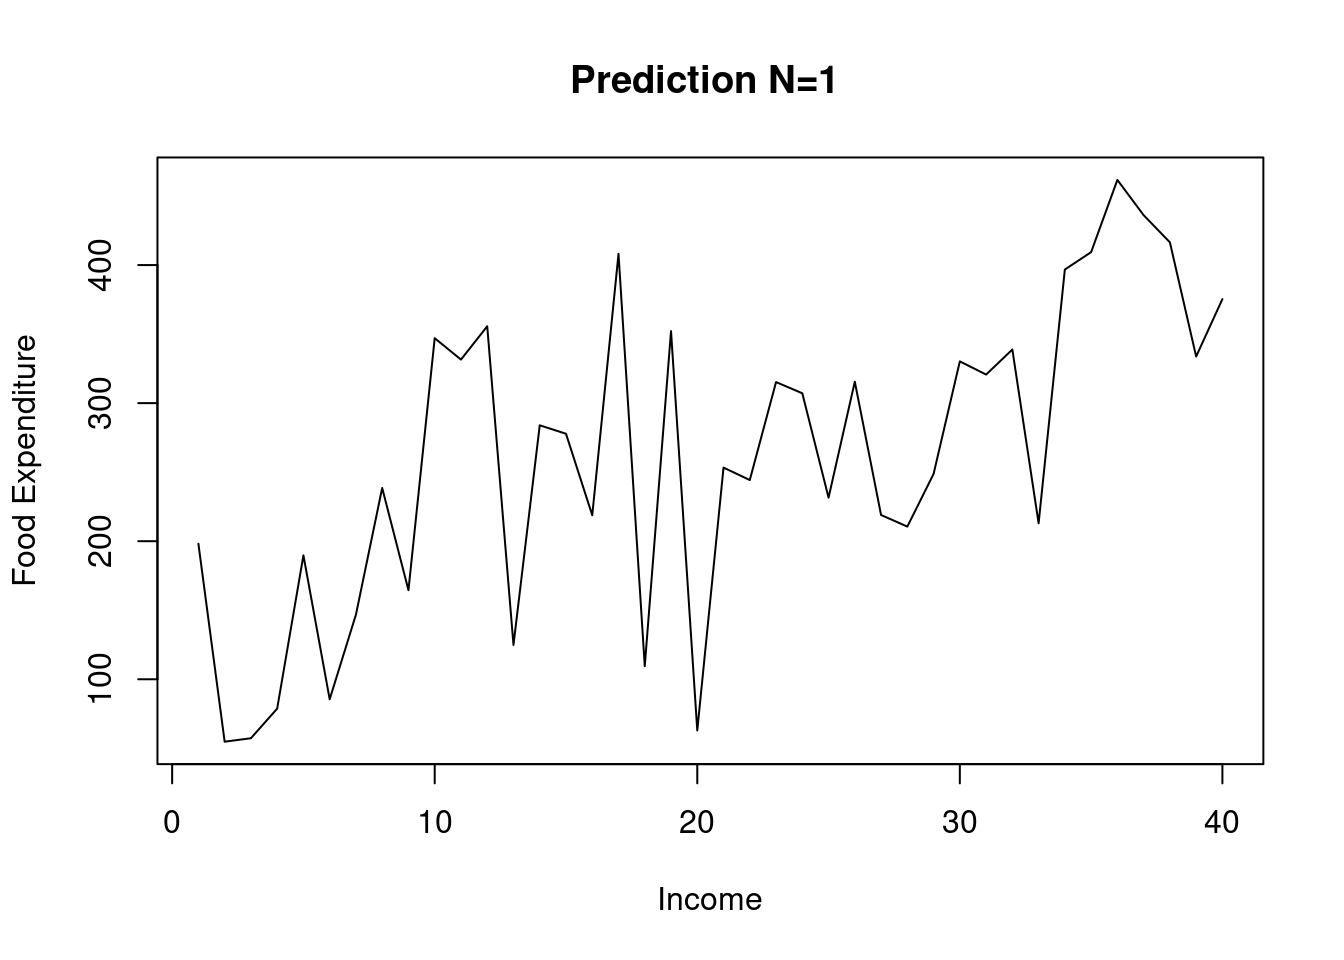
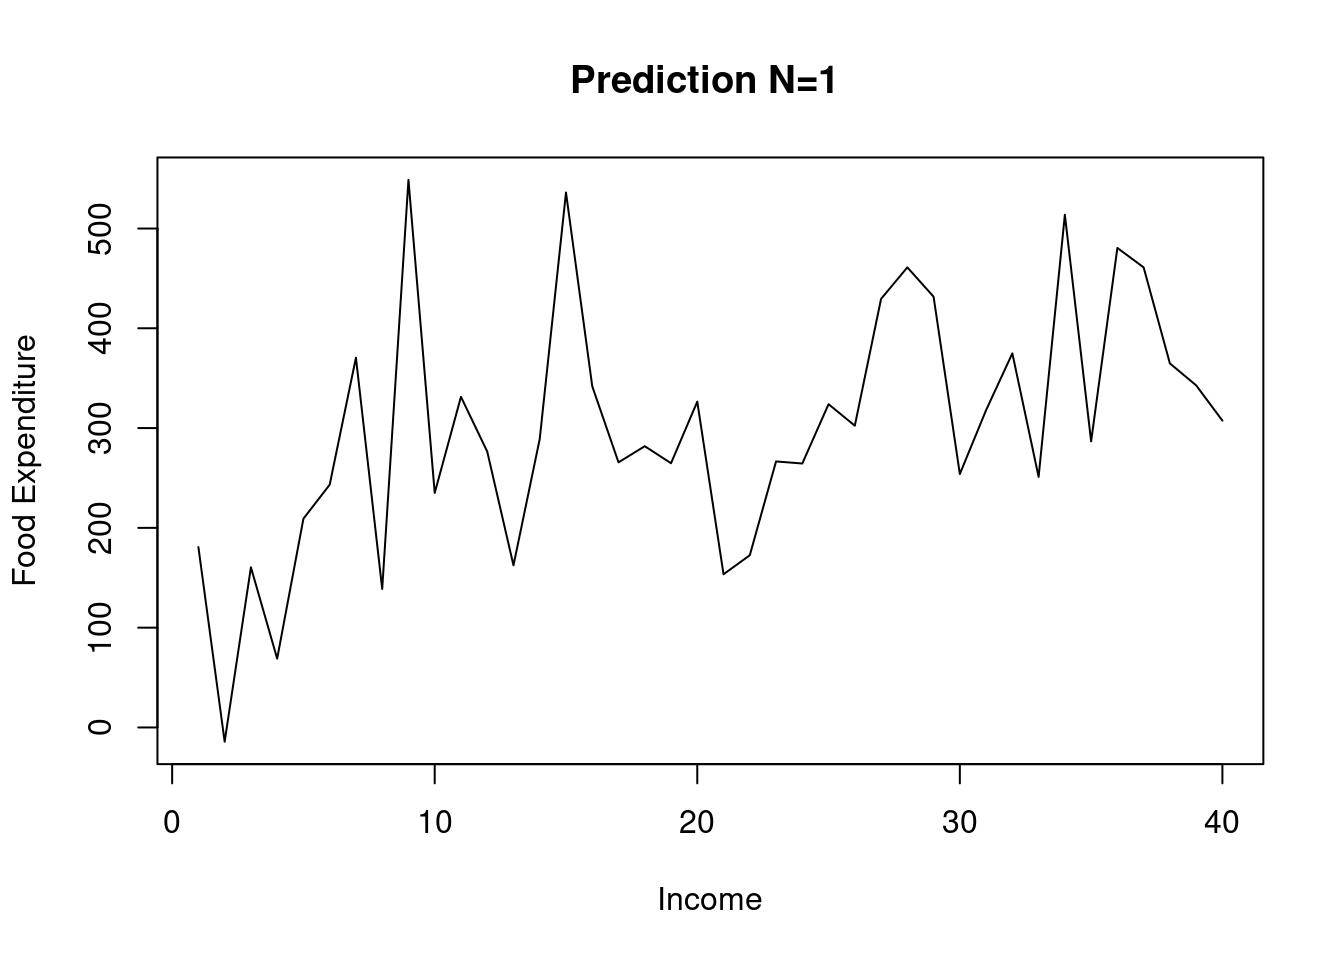
K

diff --git a/docs/모형.html b/docs/모형.html
@@ -24,7 +24,7 @@
 <meta name="author" content="윤 재호" />
 
 
-<meta name="date" content="2021-07-20" />
+<meta name="date" content="2021-07-21" />
 
   <meta name="viewport" content="width=device-width, initial-scale=1" />
   <meta name="apple-mobile-web-app-capable" content="yes" />
@@ -145,10 +145,11 @@ code span.wa { color: #60a0b0; font-weight: bold; font-style: italic; } /* Warni
 </ul></li>
 <li class="chapter" data-level="2" data-path="모형.html"><a href="모형.html"><i class="fa fa-check"></i><b>2</b> 모형</a>
 <ul>
-<li class="chapter" data-level="2.1" data-path="모형.html"><a href="모형.html#변수"><i class="fa fa-check"></i><b>2.1</b> 변수</a></li>
-<li class="chapter" data-level="2.2" data-path="모형.html"><a href="모형.html#추정"><i class="fa fa-check"></i><b>2.2</b> 추정</a></li>
-<li class="chapter" data-level="2.3" data-path="모형.html"><a href="모형.html#추정-결과"><i class="fa fa-check"></i><b>2.3</b> 추정 결과</a></li>
-<li class="chapter" data-level="2.4" data-path="모형.html"><a href="모형.html#b1-b2"><i class="fa fa-check"></i><b>2.4</b> b1, b2</a></li>
+<li class="chapter" data-level="2.1" data-path="모형.html"><a href="모형.html#모형-가정"><i class="fa fa-check"></i><b>2.1</b> 모형 가정</a></li>
+<li class="chapter" data-level="2.2" data-path="모형.html"><a href="모형.html#변수"><i class="fa fa-check"></i><b>2.2</b> 변수</a></li>
+<li class="chapter" data-level="2.3" data-path="모형.html"><a href="모형.html#추정"><i class="fa fa-check"></i><b>2.3</b> 추정</a></li>
+<li class="chapter" data-level="2.4" data-path="모형.html"><a href="모형.html#추정-결과"><i class="fa fa-check"></i><b>2.4</b> 추정 결과</a></li>
+<li class="chapter" data-level="2.5" data-path="모형.html"><a href="모형.html#b1-b2"><i class="fa fa-check"></i><b>2.5</b> b1, b2</a></li>
 </ul></li>
 <li class="chapter" data-level="3" data-path="예측.html"><a href="예측.html"><i class="fa fa-check"></i><b>3</b> 예측</a>
 <ul>
@@ -182,17 +183,27 @@ code span.wa { color: #60a0b0; font-weight: bold; font-style: italic; } /* Warni
 <div id="모형" class="section level1" number="2">
 <h1><span class="header-section-number">2</span> 모형</h1>
 <p><span class="math display">\[ Y_{i} = \alpha + \beta X_{i} + e_{i} \]</span></p>
-<div id="변수" class="section level2" number="2.1">
-<h2><span class="header-section-number">2.1</span> 변수</h2>
+<div id="모형-가정" class="section level2" number="2.1">
+<h2><span class="header-section-number">2.1</span> 모형 가정</h2>
+<p><span class="math display">\[
+The \ variable \ e_{i} \ is \ random \ (= stochastic) \\    
+E(e_{i}) = 0, \  \ var(e_{i}^2) = \sigma^2, \  \ cov(e_{j},e_{k}) =0 \\  
+The \ variable \ X_{i} \ is \ not \ random \  (= nonstochastic) \\    
+E(X_{i} \ e_{i}) = 0 \\
+e_{i} \sim N(0,\sigma^2)  \\
+\]</span></p>
+</div>
+<div id="변수" class="section level2" number="2.2">
+<h2><span class="header-section-number">2.2</span> 변수</h2>
 <div class="sourceCode" id="cb7"><pre class="sourceCode r"><code class="sourceCode r"><span id="cb7-1"><a href="모형.html#cb7-1" aria-hidden="true" tabindex="-1"></a>x <span class="ot">=</span> food[,<span class="dv">2</span>]   <span class="co"># Income</span></span>
 <span id="cb7-2"><a href="모형.html#cb7-2" aria-hidden="true" tabindex="-1"></a>y <span class="ot">=</span> food[,<span class="dv">1</span>]   <span class="co"># Food Expenditure</span></span></code></pre></div>
 </div>
-<div id="추정" class="section level2" number="2.2">
-<h2><span class="header-section-number">2.2</span> 추정</h2>
+<div id="추정" class="section level2" number="2.3">
+<h2><span class="header-section-number">2.3</span> 추정</h2>
 <div class="sourceCode" id="cb8"><pre class="sourceCode r"><code class="sourceCode r"><span id="cb8-1"><a href="모형.html#cb8-1" aria-hidden="true" tabindex="-1"></a>reg <span class="ot">&lt;-</span> <span class="fu">lm</span>(y <span class="sc">~</span> x)</span></code></pre></div>
 </div>
-<div id="추정-결과" class="section level2" number="2.3">
-<h2><span class="header-section-number">2.3</span> 추정 결과</h2>
+<div id="추정-결과" class="section level2" number="2.4">
+<h2><span class="header-section-number">2.4</span> 추정 결과</h2>
 <div class="sourceCode" id="cb9"><pre class="sourceCode r"><code class="sourceCode r"><span id="cb9-1"><a href="모형.html#cb9-1" aria-hidden="true" tabindex="-1"></a><span class="fu">summary</span>(reg)  </span></code></pre></div>
 <pre><code>## 
 ## Call:
@@ -213,8 +224,8 @@ code span.wa { color: #60a0b0; font-weight: bold; font-style: italic; } /* Warni
 ## Multiple R-squared:  0.385,  Adjusted R-squared:  0.3688 
 ## F-statistic: 23.79 on 1 and 38 DF,  p-value: 1.946e-05</code></pre>
 </div>
-<div id="b1-b2" class="section level2" number="2.4">
-<h2><span class="header-section-number">2.4</span> b1, b2</h2>
+<div id="b1-b2" class="section level2" number="2.5">
+<h2><span class="header-section-number">2.5</span> b1, b2</h2>
 <div class="sourceCode" id="cb11"><pre class="sourceCode r"><code class="sourceCode r"><span id="cb11-1"><a href="모형.html#cb11-1" aria-hidden="true" tabindex="-1"></a>b1 <span class="ot">&lt;-</span> <span class="fu">coef</span>(reg)[[<span class="dv">1</span>]] </span>
 <span id="cb11-2"><a href="모형.html#cb11-2" aria-hidden="true" tabindex="-1"></a>b2 <span class="ot">&lt;-</span> <span class="fu">coef</span>(reg)[[<span class="dv">2</span>]]</span>
 <span id="cb11-3"><a href="모형.html#cb11-3" aria-hidden="true" tabindex="-1"></a></span>

diff --git a/docs/예측.html b/docs/예측.html
@@ -24,7 +24,7 @@
 <meta name="author" content="윤 재호" />
 
 
-<meta name="date" content="2021-07-20" />
+<meta name="date" content="2021-07-21" />
 
   <meta name="viewport" content="width=device-width, initial-scale=1" />
   <meta name="apple-mobile-web-app-capable" content="yes" />
@@ -145,10 +145,11 @@ code span.wa { color: #60a0b0; font-weight: bold; font-style: italic; } /* Warni
 </ul></li>
 <li class="chapter" data-level="2" data-path="모형.html"><a href="모형.html"><i class="fa fa-check"></i><b>2</b> 모형</a>
 <ul>
-<li class="chapter" data-level="2.1" data-path="모형.html"><a href="모형.html#변수"><i class="fa fa-check"></i><b>2.1</b> 변수</a></li>
-<li class="chapter" data-level="2.2" data-path="모형.html"><a href="모형.html#추정"><i class="fa fa-check"></i><b>2.2</b> 추정</a></li>
-<li class="chapter" data-level="2.3" data-path="모형.html"><a href="모형.html#추정-결과"><i class="fa fa-check"></i><b>2.3</b> 추정 결과</a></li>
-<li class="chapter" data-level="2.4" data-path="모형.html"><a href="모형.html#b1-b2"><i class="fa fa-check"></i><b>2.4</b> b1, b2</a></li>
+<li class="chapter" data-level="2.1" data-path="모형.html"><a href="모형.html#모형-가정"><i class="fa fa-check"></i><b>2.1</b> 모형 가정</a></li>
+<li class="chapter" data-level="2.2" data-path="모형.html"><a href="모형.html#변수"><i class="fa fa-check"></i><b>2.2</b> 변수</a></li>
+<li class="chapter" data-level="2.3" data-path="모형.html"><a href="모형.html#추정"><i class="fa fa-check"></i><b>2.3</b> 추정</a></li>
+<li class="chapter" data-level="2.4" data-path="모형.html"><a href="모형.html#추정-결과"><i class="fa fa-check"></i><b>2.4</b> 추정 결과</a></li>
+<li class="chapter" data-level="2.5" data-path="모형.html"><a href="모형.html#b1-b2"><i class="fa fa-check"></i><b>2.5</b> b1, b2</a></li>
 </ul></li>
 <li class="chapter" data-level="3" data-path="예측.html"><a href="예측.html"><i class="fa fa-check"></i><b>3</b> 예측</a>
 <ul>
@@ -228,12 +229,12 @@ code span.wa { color: #60a0b0; font-weight: bold; font-style: italic; } /* Warni
 <div class="sourceCode" id="cb20"><pre class="sourceCode r"><code class="sourceCode r"><span id="cb20-1"><a href="예측.html#cb20-1" aria-hidden="true" tabindex="-1"></a><span class="co"># Least sqaures prediction (one time) </span></span>
 <span id="cb20-2"><a href="예측.html#cb20-2" aria-hidden="true" tabindex="-1"></a></span>
 <span id="cb20-3"><a href="예측.html#cb20-3" aria-hidden="true" tabindex="-1"></a>y1</span></code></pre></div>
-<pre><code>##  [1] 198.15548  54.77281  57.27107  78.73249 189.74468  85.50829 146.79649
-##  [8] 238.53799 164.53006 347.03913 331.55700 355.67083 124.84098 283.95823
-## [15] 277.81112 218.80787 408.13227 109.47731 352.16104  62.87928 253.31597
-## [22] 244.28607 315.24953 307.14305 231.55646 315.52203 218.97726 210.56597
-## [29] 248.71503 330.25151 320.68312 338.85044 212.96365 396.79066 409.39296
-## [36] 461.70003 436.14591 416.49278 333.79223 375.33837</code></pre>
+<pre><code>##  [1] 180.75140 -14.22337 160.54056  68.98021 209.25377 243.28019 370.50405
+##  [8] 138.81817 548.68565 235.03431 331.33355 276.50667 162.48100 289.11015
+## [15] 536.07111 341.89343 265.68566 281.85631 264.77620 326.50951 153.54006
+## [22] 172.59099 266.58865 264.51736 323.92833 302.41703 429.46700 461.04679
+## [29] 431.66011 253.98617 318.01341 374.88977 251.14452 513.76884 286.67489
+## [36] 480.50203 461.03212 364.79234 342.83846 307.47833</code></pre>
 <p>sink()</p>
 </div>
 </div>

diff --git a/docs/index.html b/docs/index.html
@@ -24,7 +24,7 @@
 <meta name="author" content="윤 재호" />
 
 
-<meta name="date" content="2021-07-20" />
+<meta name="date" content="2021-07-21" />
 
   <meta name="viewport" content="width=device-width, initial-scale=1" />
   <meta name="apple-mobile-web-app-capable" content="yes" />
@@ -145,10 +145,11 @@ code span.wa { color: #60a0b0; font-weight: bold; font-style: italic; } /* Warni
 </ul></li>
 <li class="chapter" data-level="2" data-path="모형.html"><a href="모형.html"><i class="fa fa-check"></i><b>2</b> 모형</a>
 <ul>
-<li class="chapter" data-level="2.1" data-path="모형.html"><a href="모형.html#변수"><i class="fa fa-check"></i><b>2.1</b> 변수</a></li>
-<li class="chapter" data-level="2.2" data-path="모형.html"><a href="모형.html#추정"><i class="fa fa-check"></i><b>2.2</b> 추정</a></li>
-<li class="chapter" data-level="2.3" data-path="모형.html"><a href="모형.html#추정-결과"><i class="fa fa-check"></i><b>2.3</b> 추정 결과</a></li>
-<li class="chapter" data-level="2.4" data-path="모형.html"><a href="모형.html#b1-b2"><i class="fa fa-check"></i><b>2.4</b> b1, b2</a></li>
+<li class="chapter" data-level="2.1" data-path="모형.html"><a href="모형.html#모형-가정"><i class="fa fa-check"></i><b>2.1</b> 모형 가정</a></li>
+<li class="chapter" data-level="2.2" data-path="모형.html"><a href="모형.html#변수"><i class="fa fa-check"></i><b>2.2</b> 변수</a></li>
+<li class="chapter" data-level="2.3" data-path="모형.html"><a href="모형.html#추정"><i class="fa fa-check"></i><b>2.3</b> 추정</a></li>
+<li class="chapter" data-level="2.4" data-path="모형.html"><a href="모형.html#추정-결과"><i class="fa fa-check"></i><b>2.4</b> 추정 결과</a></li>
+<li class="chapter" data-level="2.5" data-path="모형.html"><a href="모형.html#b1-b2"><i class="fa fa-check"></i><b>2.5</b> b1, b2</a></li>
 </ul></li>
 <li class="chapter" data-level="3" data-path="예측.html"><a href="예측.html"><i class="fa fa-check"></i><b>3</b> 예측</a>
 <ul>
@@ -182,7 +183,7 @@ code span.wa { color: #60a0b0; font-weight: bold; font-style: italic; } /* Warni
 <div id="header">
 <h1 class="title">4 장</h1>
 <p class="author"><em>윤 재호</em></p>
-<p class="date" style="margin-top: 1.5em;"><em>2021-07-20</em></p>
+<p class="date" style="margin-top: 1.5em;"><em>2021-07-21</em></p>
 </div>
 <div id="단순회귀-모형" class="section level1" number="1">
 <h1><span class="header-section-number">1</span> 단순회귀 모형</h1>

diff --git a/docs/참고자료.html b/docs/참고자료.html
@@ -24,7 +24,7 @@
 <meta name="author" content="윤 재호" />
 
 
-<meta name="date" content="2021-07-20" />
+<meta name="date" content="2021-07-21" />
 
   <meta name="viewport" content="width=device-width, initial-scale=1" />
   <meta name="apple-mobile-web-app-capable" content="yes" />
@@ -145,10 +145,11 @@ code span.wa { color: #60a0b0; font-weight: bold; font-style: italic; } /* Warni
 </ul></li>
 <li class="chapter" data-level="2" data-path="모형.html"><a href="모형.html"><i class="fa fa-check"></i><b>2</b> 모형</a>
 <ul>
-<li class="chapter" data-level="2.1" data-path="모형.html"><a href="모형.html#변수"><i class="fa fa-check"></i><b>2.1</b> 변수</a></li>
-<li class="chapter" data-level="2.2" data-path="모형.html"><a href="모형.html#추정"><i class="fa fa-check"></i><b>2.2</b> 추정</a></li>
-<li class="chapter" data-level="2.3" data-path="모형.html"><a href="모형.html#추정-결과"><i class="fa fa-check"></i><b>2.3</b> 추정 결과</a></li>
-<li class="chapter" data-level="2.4" data-path="모형.html"><a href="모형.html#b1-b2"><i class="fa fa-check"></i><b>2.4</b> b1, b2</a></li>
+<li class="chapter" data-level="2.1" data-path="모형.html"><a href="모형.html#모형-가정"><i class="fa fa-check"></i><b>2.1</b> 모형 가정</a></li>
+<li class="chapter" data-level="2.2" data-path="모형.html"><a href="모형.html#변수"><i class="fa fa-check"></i><b>2.2</b> 변수</a></li>
+<li class="chapter" data-level="2.3" data-path="모형.html"><a href="모형.html#추정"><i class="fa fa-check"></i><b>2.3</b> 추정</a></li>
+<li class="chapter" data-level="2.4" data-path="모형.html"><a href="모형.html#추정-결과"><i class="fa fa-check"></i><b>2.4</b> 추정 결과</a></li>
+<li class="chapter" data-level="2.5" data-path="모형.html"><a href="모형.html#b1-b2"><i class="fa fa-check"></i><b>2.5</b> b1, b2</a></li>
 </ul></li>
 <li class="chapter" data-level="3" data-path="예측.html"><a href="예측.html"><i class="fa fa-check"></i><b>3</b> 예측</a>
 <ul>
